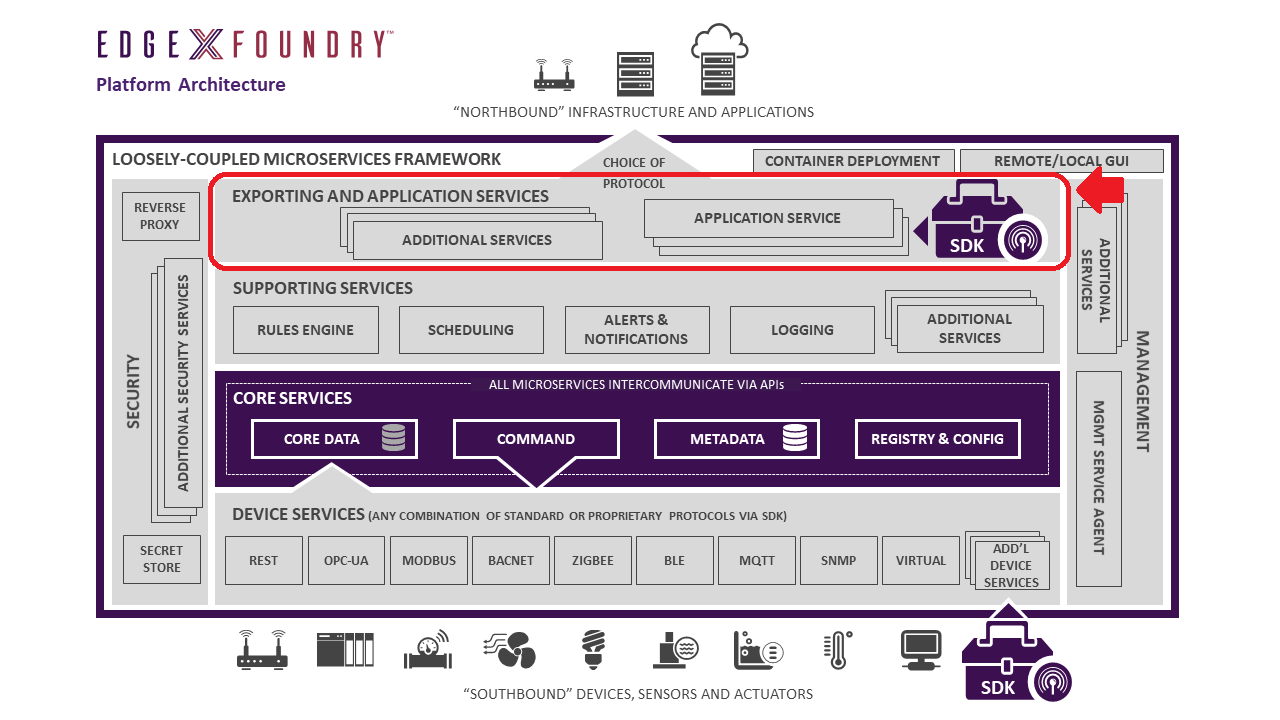
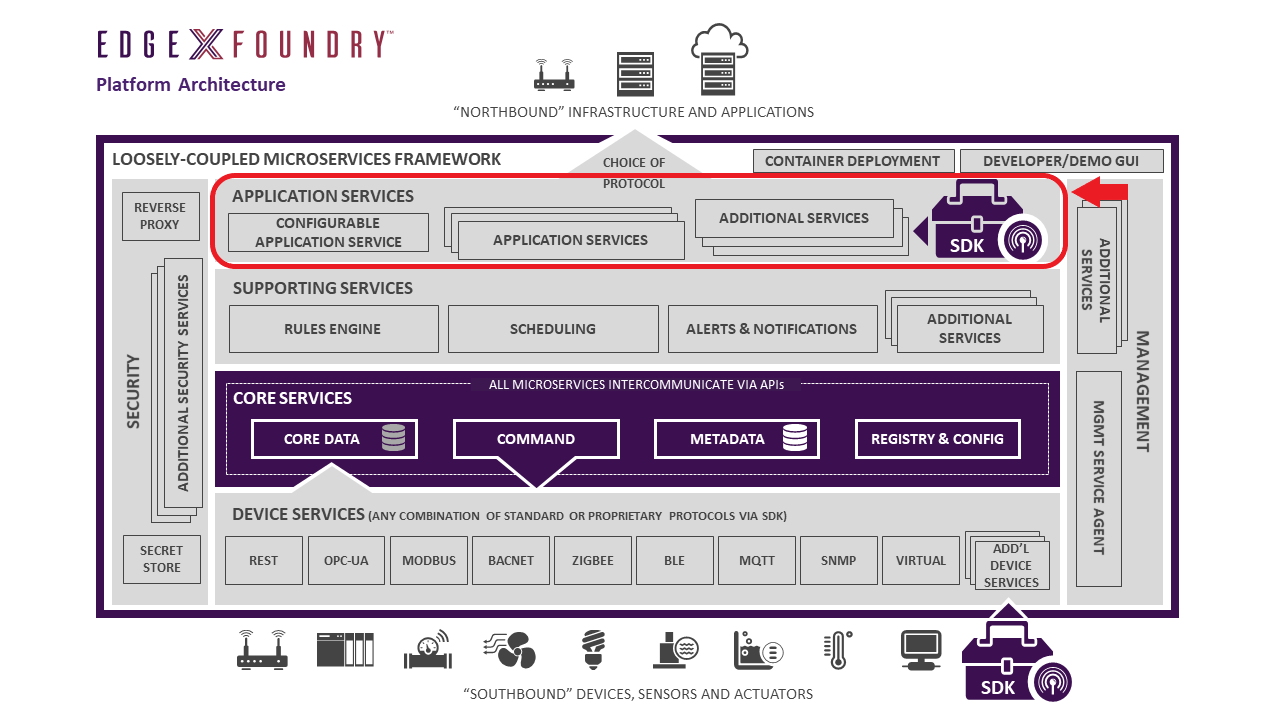
feat(microservices): Rework App Service Introduction to bring up-to-date
closes #409

Changed region(s): [[0.1562, 0.2139, 0.875, 0.3972], [0.3438, 0.4278, 0.6875, 0.4889], [0.2188, 0.4278, 0.3125, 0.4889]]

diff --git a/docs_src/microservices/application/ApplicationServices.md b/docs_src/microservices/application/ApplicationServices.md
@@ -2,97 +2,32 @@
 
 ![image](ApplicationServices.png)
 
-Application Services are a means to get data from EdgeX Foundry to
-external systems and process (be it analytics package, enterprise or
-on-prem application, cloud systems like Azure IoT, AWS IoT, or Google
-IoT Core, etc.). Application Services provide the means for data to be
-prepared (transformed, enriched, filtered, etc.) and groomed (formatted,
-compressed, encrypted, etc.) before being sent to an endpoint of choice.
-Endpoints supported out of the box today include HTTP and MQTT
-endpoints, but will include additional offerings in the future and could
-include a custom endpoints.
+Application Services are a means to get data from EdgeX Foundry to be processed at the edge and/or sent to external systems (be it analytics package, enterprise or on-prem application, cloud systems like Azure IoT, AWS IoT, or Google IoT Core, etc.). Application Services provide the means for data to be prepared (transformed, enriched, filtered, etc.) and groomed (formatted, compressed, encrypted, etc.) before being sent to an endpoint of choice or published back to other Application Service to consume. The export endpoints supported out of the box today include HTTP and MQTT endpoints, but custom endpoints can be implemented along side the existing functionality.
 
-!!! note
-    Application Services has replaced Export Services
-
-Application Services are based on the idea of a "Functions Pipeline".
-A functions pipeline is a collection of functions that process messages
-(in this case EdgeX event/reading messages) in the order that you've
-specified. The first function in a pipeline is a trigger. A trigger
-begins the functions pipeline execution. A trigger is something like a
-message landing in a watched message queue.
+Application Services are based on the idea of a "Functions Pipeline". A functions pipeline is a collection of functions that process messages (in this case EdgeX event/reading messages) in the order that you've specified. Triggers seed the first function in the pipeline with the data received by the Application Service. A trigger is something like a message landing in a watched message queue. The most commonly used Trigger is the MessageBus Trigger. See the [Triggers](./Triggers.md) section for more details
 
 ![image](TriggersFunctions.png)
 
-An Applications Functions Software Development Kit (or App Functions
-SDK) is available to help create Application Services. Currently the
-only SDK supported language is Golang, with the intention that community
-developed and supported SDKs will come in the future for other
-languages. It is currently available as a Golang module to remain
-operating system (OS) agnostic and to comply with the latest EdgeX
-guidelines on dependency management.
+An Applications Functions Software Development Kit (or `App Functions SDK`) is available to help create Application Services. Currently the only SDK supported language is Golang, with the intention that community developed and supported SDKs may come in the future for other languages. The SDK is available as a Golang module to remain operating system (OS) agnostic and to comply with the latest EdgeX guidelines on dependency management.
 
 Any application built on top of the Application Functions SDK is considered an App Service. This SDK is provided to help build Application Services by assembling triggers, pre-existing functions and custom functions of your making into a pipeline.
 
-## Application Service Improvements
-
-Providing an SDK that connects directly to a message bus by which Core
-Data events are published eliminates performance issues as well as allow
-the developers extra control on what happens with that data as soon as
-it is available. Furthermore, it emphasizes configuration over
-registration for consuming the data. The application services can be
-customized to a client's needs and thereby also removing the need for
-client registration.
-
 ## Standard Functions
 
-As mentioned, an Application Service is a function pipeline. The SDK
-provides some standard functions that can be used in a functions
-pipeline. In the future, additional functions will be provided
-"standard" or in other words provided with the SDK. Additionally,
-developers can implement their own custom functions and add those to their
-Application Service functions pipeline.
+As mentioned, an Application Service is a function pipeline. The SDK provides some standard functions that can be used in a functions pipeline. In the future, additional functions will be provided "standard" or in other words provided with the SDK. Additionally, developers can implement their own custom functions and add those to their Application Service functions pipeline.
 
 ![image](SDKFunctions.png)
 
-One of the most common use cases for working with data that comes from
-Core Data is to filter data down to what is relevant for a given
-application and to format it. To help facilitate this, four primary
-functions ported over from the existing services today are included in
-the SDK. The first is the `DeviceNameFilter` function which
-will remove events that do not match the specified IDs and will cease
-execution of the pipeline if no event matches. The second is the
-`ValueDescriptorFilter` which exhibits the same behavior as
-`DeviceNameFilter` except filtering event readings on Value Descriptor
-instead of DeviceID. The third and fourth provided functions in the SDK
-transform the data received to either XML or JSON by calling
-`XMLTransform` or `JSONTransform`.
+One of the most common use cases for working with data that comes from the MessageBus is to filter data down to what is relevant for a given application and to format it. To help facilitate this, six primary functions  are included in the SDK. The first is the `FilterByProfileName` function which will remove events that do or do not match the configured `ProfileNames` and execution of the pipeline will cease if no event remains after filtering. The second is the `FilterByDeviceName` function which will remove events that do or do not match the configured `DeviceNames` and execution of the pipeline will cease if no event remains after filtering.  The third is the `FilterBySourceName` function which will remove events that do or do not match the configured `SourceNames` and execution of the pipeline will cease if no event remains after filtering. A `SourceName` is the name of the source (command or resource) that the Event was created from. The fourth is the `FilterByResourceName` which exhibits the same behavior as `DeviceNameFilter` except filtering the event's `Readings` on `ResourceName` instead of `DeviceName`. Execution of the pipeline will cease if no readings remain after filtering. The fifth and sixth provided functions in the SDK transform the data received to either XML or JSON by calling `XMLTransform` or `JSONTransform`.
 
-Typically, after filtering and transforming the data as needed,
-exporting is the last step in a pipeline to ship the data where it needs
-to go. There are two primary functions included in the SDK to help
-facilitate this. The first is the`HTTPPost` function that will POST the provided data 
-to a specified endpoint, and the second is an `MQTTSecretSend()` function that will publish
-the provided data to an MQTT Broker as specified in the configuration.
+Typically, after filtering and transforming the data as needed, exporting is the last step in a pipeline to ship the data where it needs to go. There are two primary functions included in the SDK to help facilitate this. The first is the`HTTPPost/HTTPPut`functions that will POST/PUT the provided data to a specified endpoint, and the second is an `MQTTSecretSend()` function that will publish the provided data to an MQTT Broker as specified in the configuration.
 
-There are two primary triggers that have been included in the SDK that
-initiate the start of the function pipeline. First is via a POST HTTP
-Endpoint `/api/v1/trigger` with the EdgeX event data as the body.
-Second is the MessageBus subscription with connection details as
-specified in the configuration.
+See [Built-in Functions](./BuiltIn.md) section for full list of SDK supplied functions 
 
-Finally, data may be sent back to the message bus or HTTP response by
-calling `.complete()` on the context. If the trigger is HTTP, then it will
-be an HTTP Response. If the trigger is MessageBus, then it will be
-published to the configured host and topic.
+!!! Note
+    The App SDK provides much more functionality than just filtering, formatting and exporting. The above simple example is provided to demonstrate how the functions pipeline work. With the ability to write your custom pipeline functions, your custom application services can do what ever your use case demands.
 
-### Unsupported existing export service functions
+There are three primary triggers that have been included in the SDK that initiate the start of the function pipeline. First is the HTTP Trigger via a POST to the endpoint `/api/v2/trigger` with the EdgeX Event data as the body. Second is the EdgeX MessageBus Trigger with connection details as specified in the configuration and the third it the External MQTT Trigger with connection details as specified in the configuration. See the [Triggers](./Triggers.md) section for full list of available `Triggers`
 
-**Valid Event Check**--The first component in the pipe and filter,
-before the copier (described in the previous section) is a filter that
-can be optionally turned on or off by configuration. This filter is a
-general purpose data checking filter which assesses the device- or
-sensor-provided Event, with associated Readings, and ensures the data
-conforms to the ValueDescriptor associated with the Readings.
+Finally, data may be sent back to the Trigger response by calling `.SetResponseData()` on the context. If the trigger is HTTP, then it will be an HTTP Response. If the trigger is EdgeX MessageBus, then it will be published to the configured host and publish topic. If the trigger is External MQTT, then it will be published to the configured publish topic.
 
-- For example, if the data from a sensor is described by its metadata profile as adhering to a "Temperature" value descriptor of floating number type, with the value between -100° F and 200° F, but the data seen in the Event and Readings is not a floating point number, for example if the data in the reading is a word such as "cold," instead of a number, then the Event is rejected (no client receives the data) and no further processing is accomplished on the Event by the Export Distro service.
